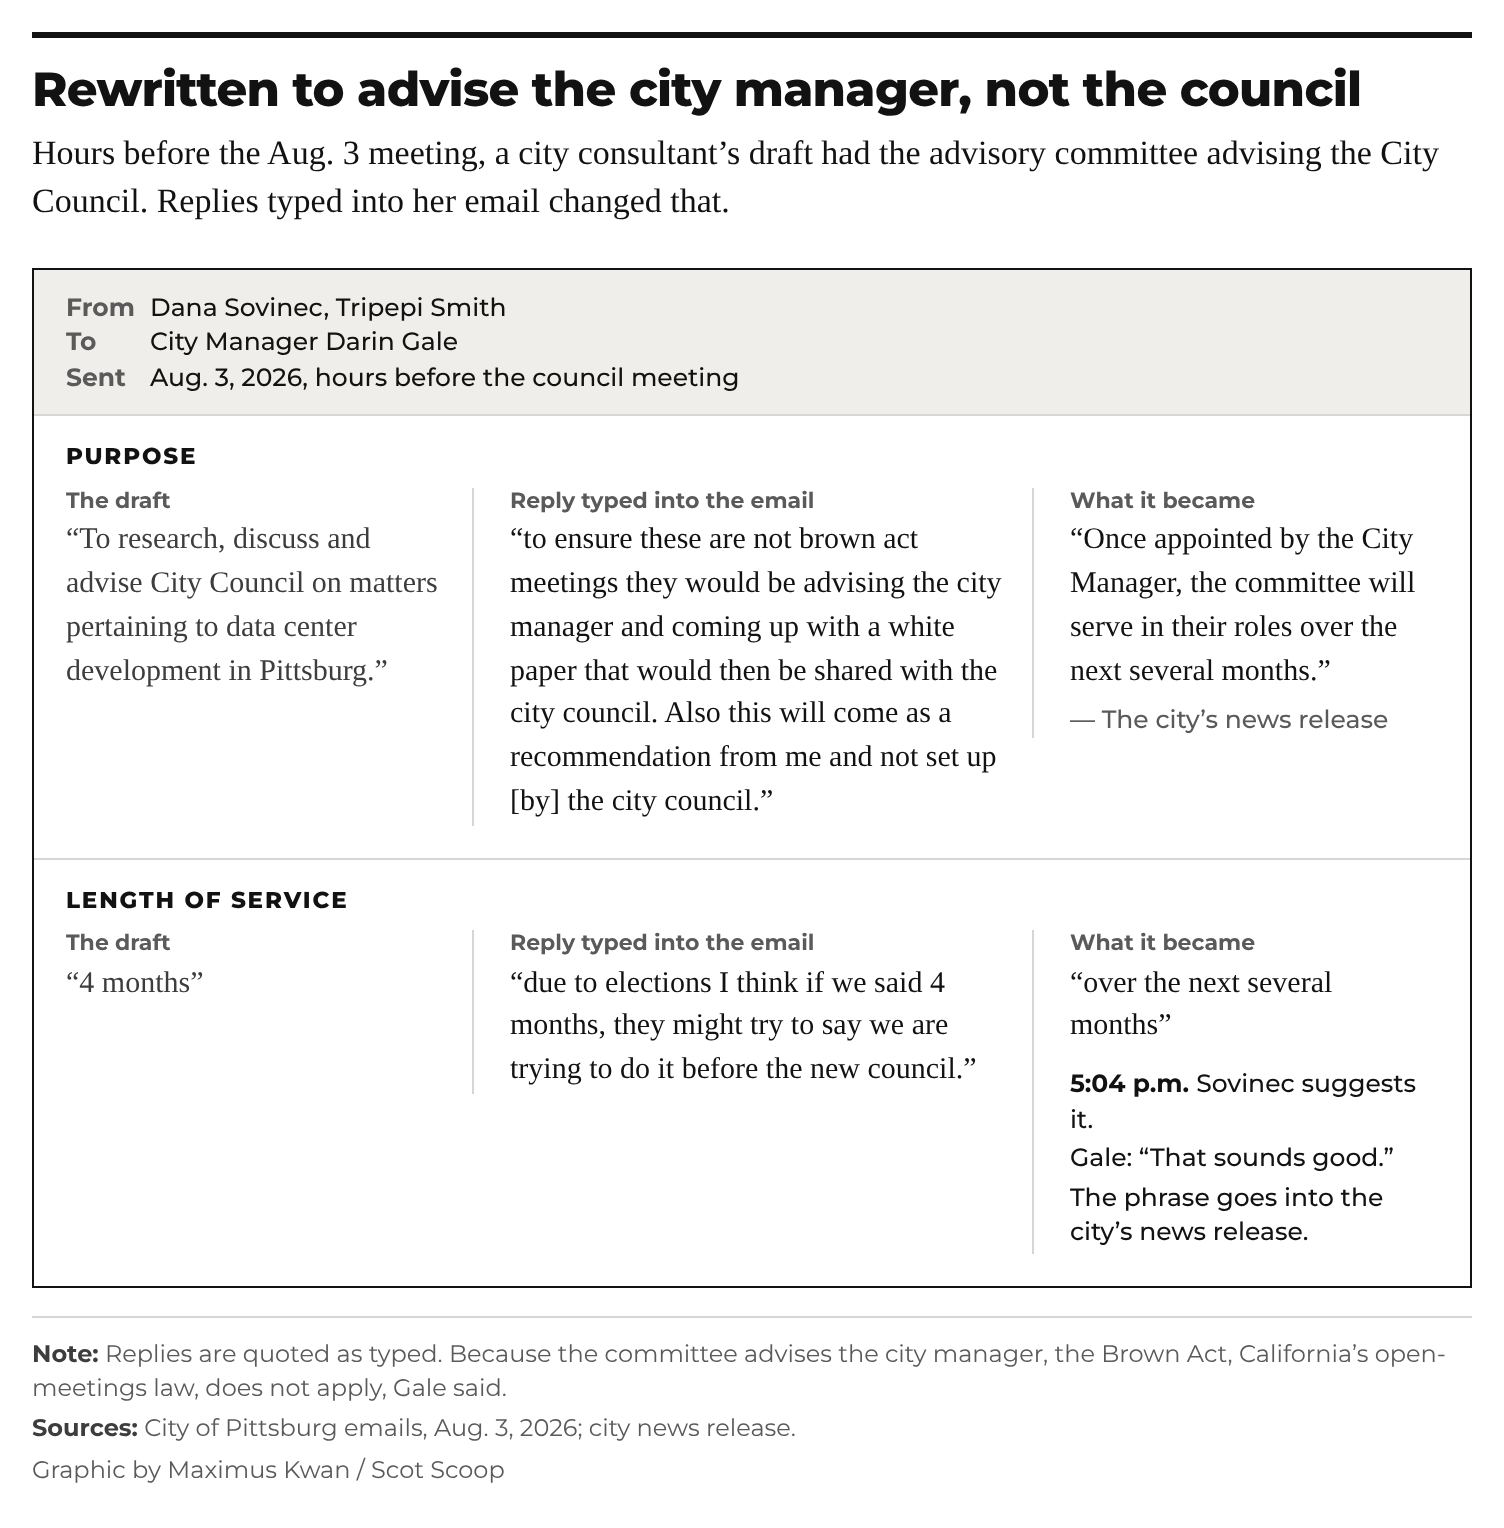
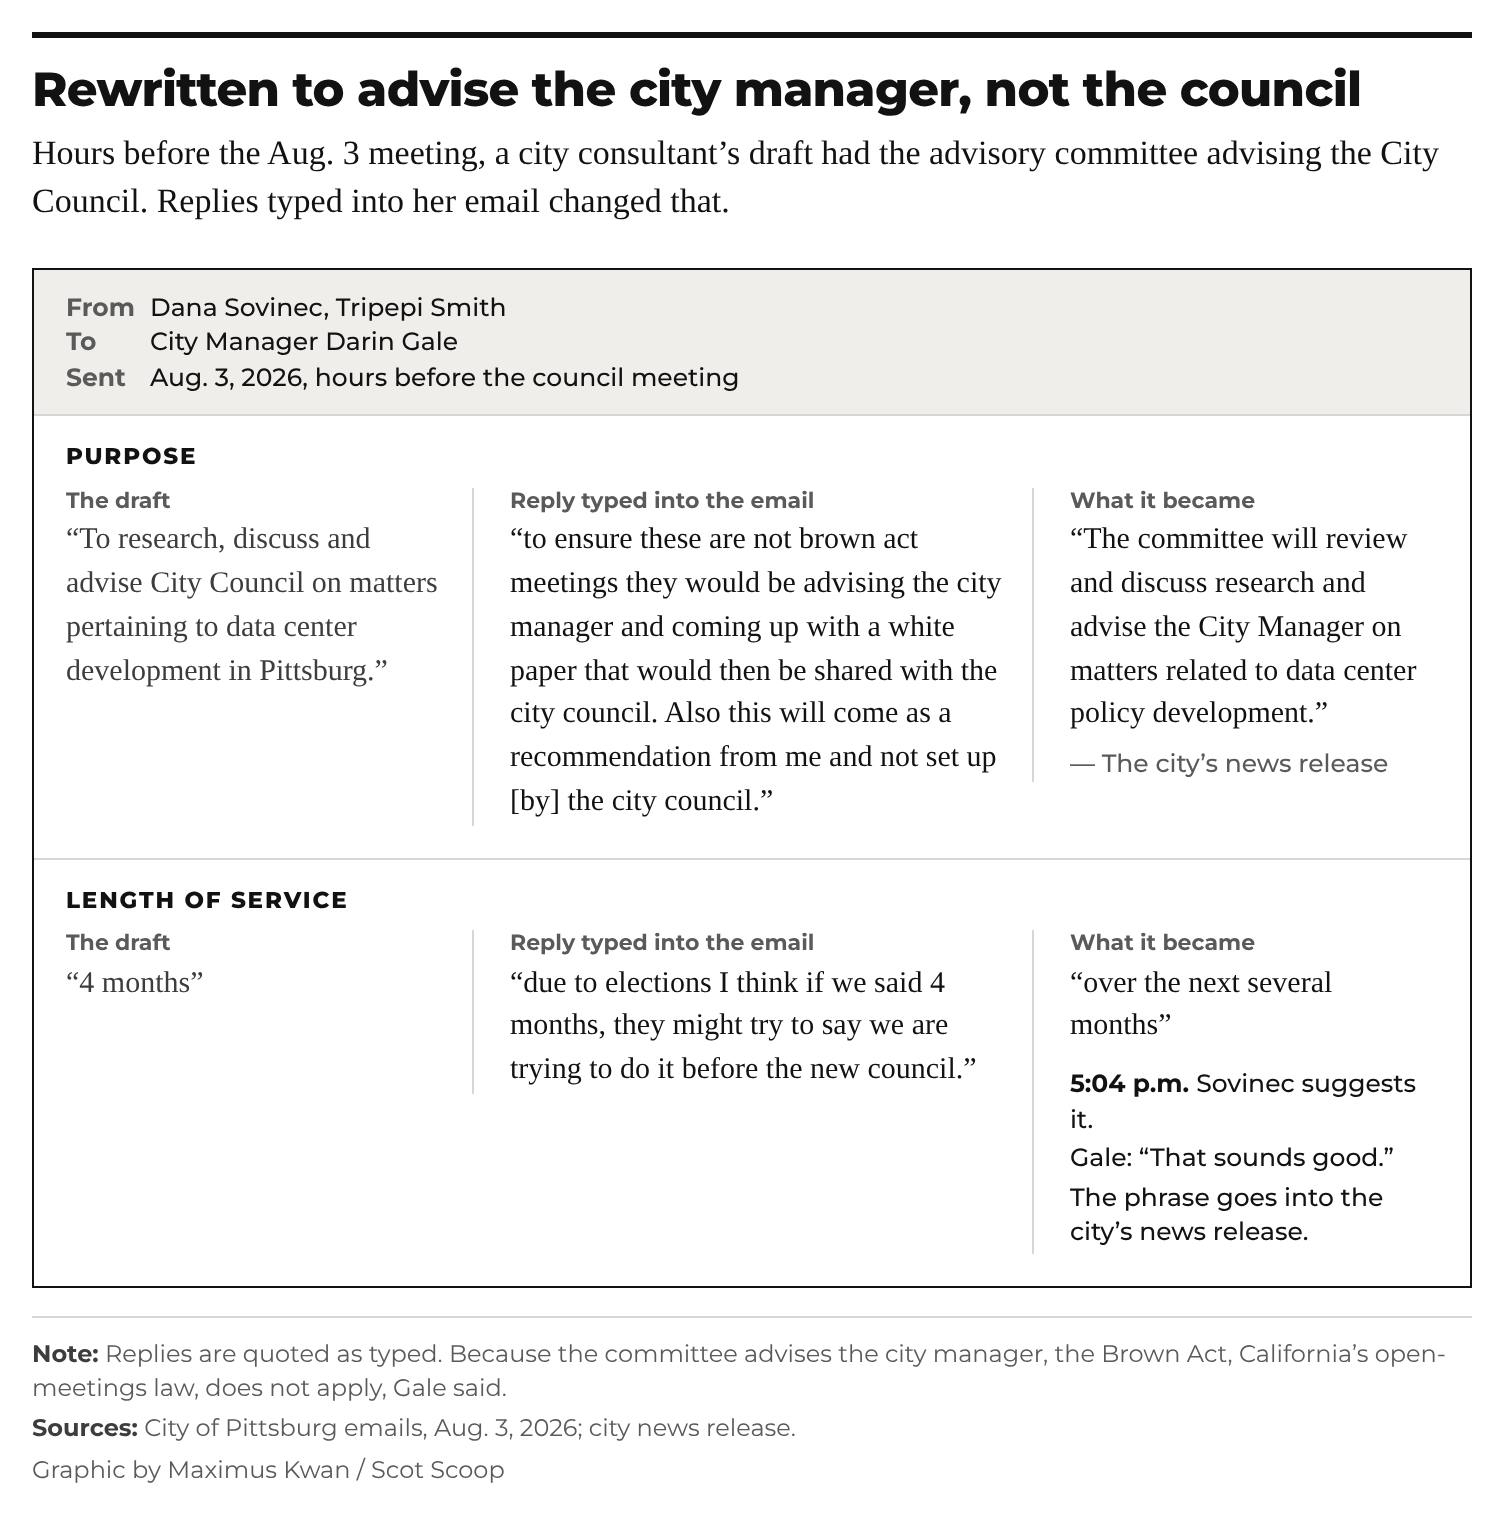
Email: quote the news release's purpose line
"What it became" for Purpose now quotes the release's purpose sentence
("The committee will review and discuss research and advise the City
Manager on matters related to data center policy development"), the
draft's line with the City Manager in place of the council.

Claude-Session: https://claude.ai/code/session_016Gic3g8uK4cBBHy5sjR4hD

Changed region(s): [[0.7188, 0.3384, 0.9375, 0.5229]]

diff --git a/graphics/committee-redline/index.html b/graphics/committee-redline/index.html
@@ -19,7 +19,7 @@
   <figure class="ph-root" data-graphic="committee-redline" aria-labelledby="hed" aria-describedby="desc">
     <h3 class="ph-hed" id="hed">Rewritten to advise the city manager, not the council</h3>
     <p class="ph-dek">Hours before the Aug. 3 meeting, a city consultant’s draft had the advisory committee advising the City Council. Replies typed into her email changed that.</p>
-    <p class="ph-sr-only ph-desc" id="desc">The draft described the committee’s purpose as advising the City Council and its length of service as 4 months. Replies typed into the email said the members would advise the city manager, so the meetings would not be Brown Act meetings, and that 4 months could look like an attempt to finish before the new council. The city’s news release said the committee would be appointed by the city manager. For its term, Sovinec suggested “over the next several months,” Gale wrote “That sounds good,” and the phrase went into the release.</p>
+    <p class="ph-sr-only ph-desc" id="desc">The draft described the committee’s purpose as advising the City Council and its length of service as 4 months. Replies typed into the email said the members would advise the city manager, so the meetings would not be Brown Act meetings, and that 4 months could look like an attempt to finish before the new council. The city’s news release said the committee would “review and discuss research and advise the City Manager on matters related to data center policy development.” For its term, Sovinec suggested “over the next several months,” Gale wrote “That sounds good,” and the phrase went into the release.</p>
     <div class="ph-body"></div>
     <figcaption class="ph-foot"><p class="ph-note"><b>Note:</b> Replies are quoted as typed. Because the committee advises the city manager, the Brown Act, California’s open-meetings law, does not apply, Gale said.</p><p class="ph-source"><b>Sources:</b> City of Pittsburg emails, Aug. 3, 2026; city news release.</p><p class="ph-credit">Graphic by Maximus Kwan / Scot Scoop</p></figcaption>
   </figure>

diff --git a/embed/sno/committee-redline.html b/embed/sno/committee-redline.html
@@ -4,7 +4,7 @@
   <img src="https://maximuskwan.github.io/pittsburg-data-center/graphics/committee-redline/png/committee-redline-phone.png"
        srcset="https://maximuskwan.github.io/pittsburg-data-center/graphics/committee-redline/png/committee-redline-phone.png 750w, https://maximuskwan.github.io/pittsburg-data-center/graphics/committee-redline/png/committee-redline-desktop.png 1504w"
        sizes="(max-width: 600px) 100vw, 752px" loading="lazy" style="width:100%;height:auto"
-       alt="The draft purpose, advising the City Council, beside the replies typed into the email and what each part became: the members would advise the city manager so the meetings would not be Brown Act meetings, and 4 months became over the next several months.">
+       alt="The draft purpose said the committee would advise the City Council. Replies typed into the email said members would advise the city manager, so the meetings would not be Brown Act meetings, and the city’s news release said the committee would advise the City Manager. The draft’s 4 months became “over the next several months.”">
 </div>
 <p class="ph-caption">Hours before the Aug. 3 meeting, a draft from the city’s public-affairs firm said the advisory committee would advise the City Council. Replies typed into the email rewrote it: Members would advise the city manager, “to ensure these are not brown act meetings.”</p>
 <script type="module">import(window.PH_MOUNT_URL ||= 'https://maximuskwan.github.io/pittsburg-data-center/shared/mount.js?v=' + Date.now().toString(36));</script>

diff --git a/graphics/committee-redline/graphic.js b/graphics/committee-redline/graphic.js
@@ -28,7 +28,7 @@ export default async function draw(ctx) {
         col('What it became', ...became)));
   };
 
-  // Purpose: what the city's news release said about who sets the committee up.
+  // Purpose: the city's news release, the draft's line with the City Manager in place of the council.
   const purpose = get('purpose-release');
   const purposeBecame = [
     h('p', { class: 'rl-words' }, words(purpose, quote(purpose))),

diff --git a/docs/GRAPHICS.md b/docs/GRAPHICS.md
@@ -76,7 +76,7 @@ Copy a folder in `graphics/` (the redline is the simplest), rename it, and keep 
 
 **2. Deal timeline.** It has 27 entries, from August 2017 to the Oct. 26, 2026, moratorium, with Dec. 8–16, 2025, in a day-by-day box. Each entry names its record, page included, in the CSV's `source` column. An entry links to the record when the CSV's `url` column has one. 25 of 27 do. The other two stay unlinked on purpose: Dec. 8, 2025 (the CEC's answers to Scot Scoop) and around May 20, 2026 (the Perkins interview transcript) won't be published, so their entries name the source without a link. Records stay hidden until the reader presses the one "Show records" button above the list (they always print). Scrollama highlights the entry at mid-screen. Reduced motion leaves the highlight off.
 
-**4. Committee email.** Each part (Purpose, Length of service) runs in three columns: the draft (p. 41 of the advisory committee emails), the reply typed into the email, and what it became, all quoted as typed. There's no strikethrough, because the record shows replies typed into the email, not anyone crossing the draft out, and no highlight behind the quotes. The draft is attributed as the story attributes it. Purpose's "What it became" quotes the city's news release: "Once appointed by the City Manager, the committee will serve in their roles over the next several months." The release sentence on hand doesn't say whom the committee advises, so the graphic doesn't claim it.
+**4. Committee email.** Each part (Purpose, Length of service) runs in three columns: the draft (p. 41 of the advisory committee emails), the reply typed into the email, and what it became, all quoted as typed. There's no strikethrough, because the record shows replies typed into the email, not anyone crossing the draft out, and no highlight behind the quotes. The draft is attributed as the story attributes it. Purpose's "What it became" quotes the city's news release: "The committee will review and discuss research and advise the City Manager on matters related to data center policy development." It is the draft's line with the City Manager in place of the City Council.
 
 **5. Water-use chart.** The same four estimates are shown at three scales (axes to 90,000, 400,000 and 7.5 million gallons a day, so every value sits just after its bar), so the small numbers stay visible as it zooms out. Each label names its scope from the CSV's `scope` column: the city manager's and engineers' figures are Phase 1, and the 2019 figure is the whole park, all phases. The red cooling share is labeled in every panel. The golf course figure is 300 acre-feet a year (≈267,800 gallons a day), shown as "roughly 270,000". The cooling share is 41,177 of 58,407 gallons, or 70.5%, labeled "about 70%" to match the story.
 
